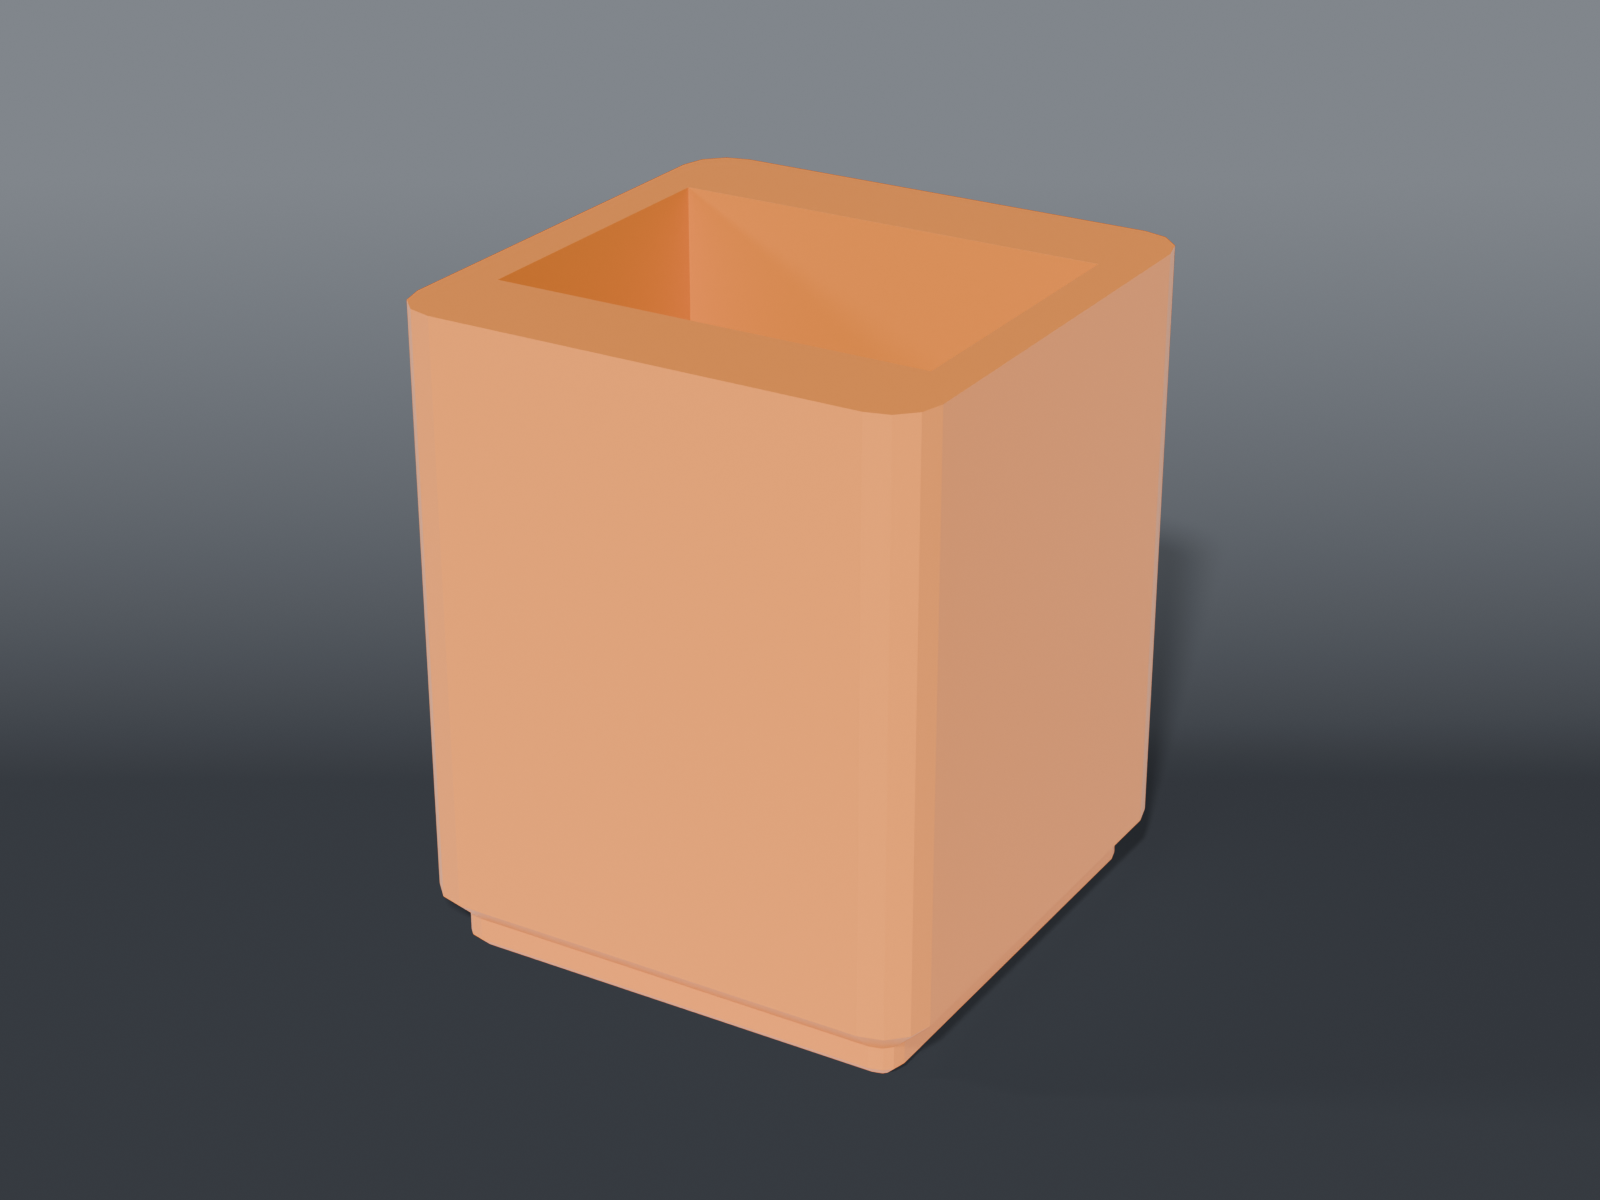
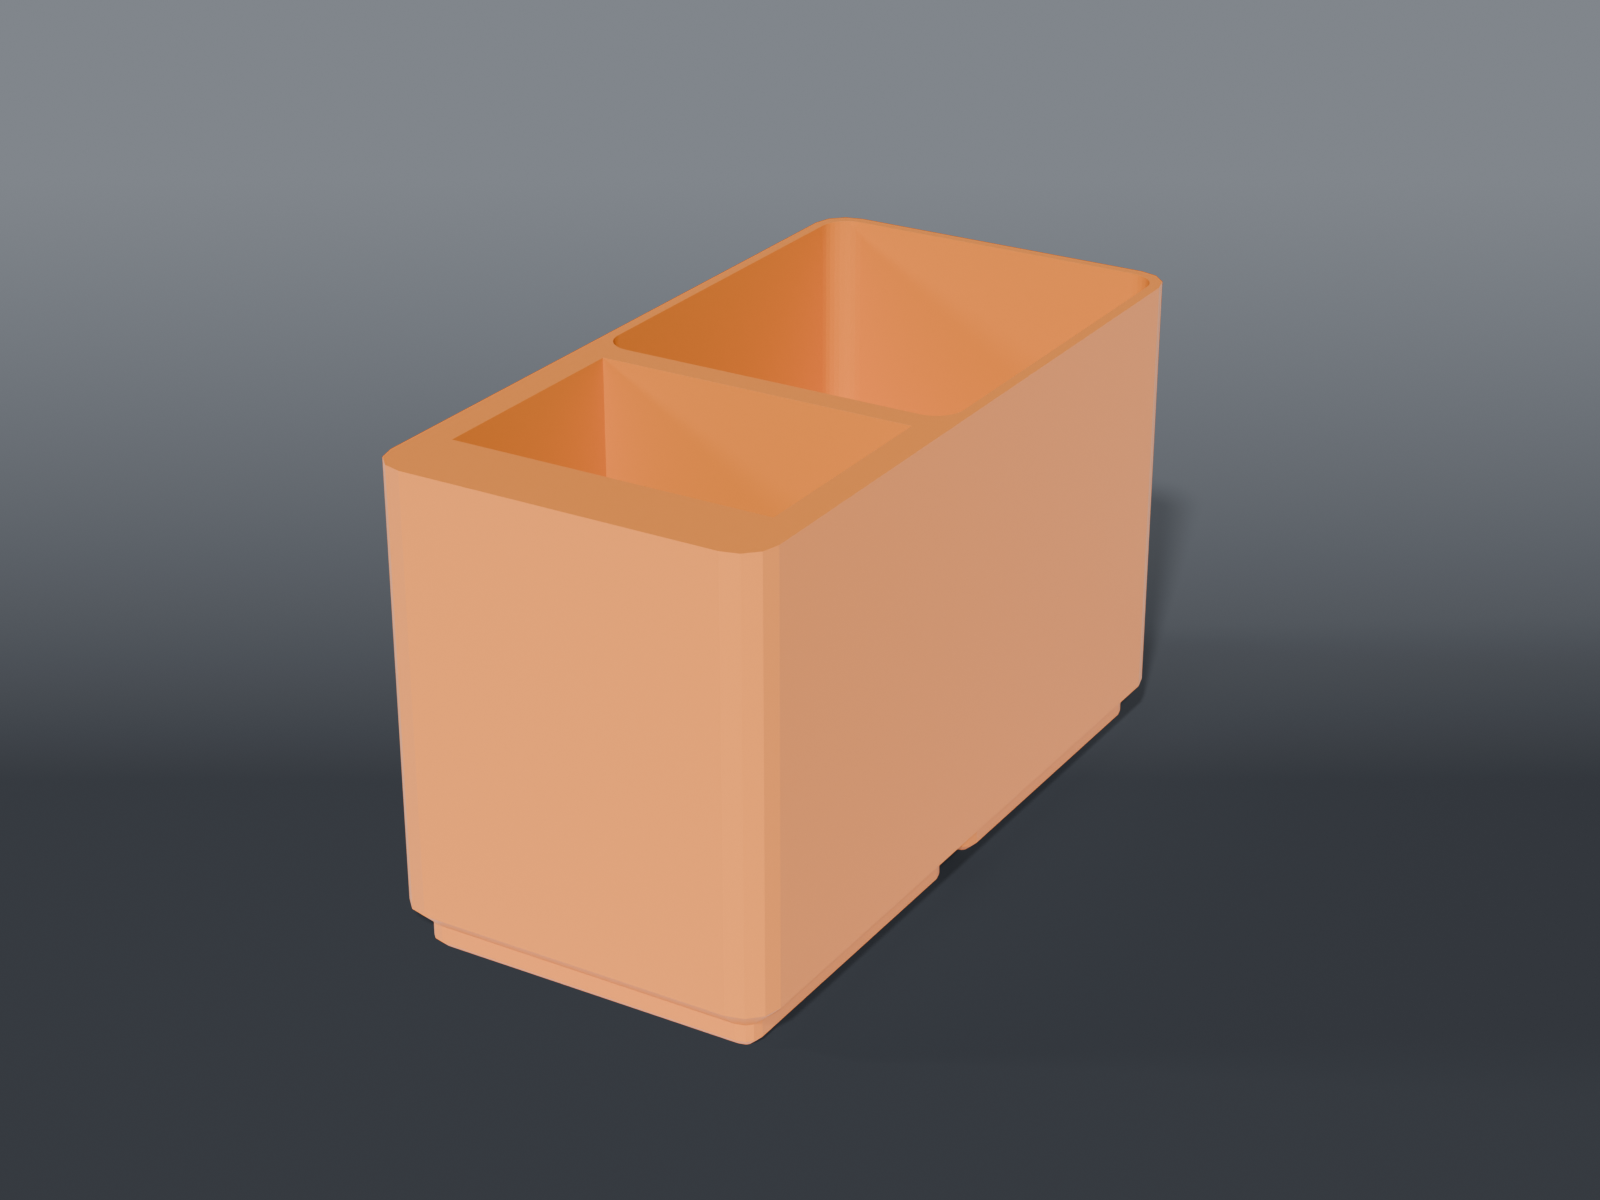
feat(chip-vacuum): 1x2 with an open well for the spare tip and suction cups

Changed region(s): [[0.2188, 0.1233, 0.75, 0.8942]]

diff --git a/chip-vacuum/README.md b/chip-vacuum/README.md
@@ -1,14 +1,14 @@
-# Chip-puller vacuum cup
+# Chip-puller vacuum bin
 
-![Chip-puller vacuum cup](preview.png)
+![Chip-puller vacuum bin](preview.png)
 
-A **1×1 Gridfinity cup** that stands a handheld, rechargeable chip-puller vacuum upright, bottom end down, beside the board.
+A **1×2 Gridfinity bin** for a handheld, rechargeable chip-puller vacuum. One cell stands the vacuum upright, bottom end down. The other is an open well for its spare tip and suction cups, so the tool and its bits lift out together.
 
 ## Parts
 
 | Part | File | Size | Print |
 |---|---|---|---|
-| **Vacuum cup** | `bin_chip_vacuum.scad` | 41.5 × 41.5 × 51 mm | ×1 — feet down, no supports |
+| **Vacuum bin** | `bin_chip_vacuum.scad` | 41.5 × 83.5 × 51 mm | ×1 — feet down, no supports |
 
 ## Sized from the vacuum
 
@@ -18,11 +18,11 @@ Calipered (`survey/MEASUREMENTS.md`, 2026-10-09): **34 × 24 × 170 mm** with it
 - **Closed floor.** The charge port is on the bottom face, but it won't charge standing in the cup, so there's no cable slot.
 - **45 mm of a 170 mm body** is a comfort choice. The cup latches into the grid, so nothing tips. It leans less than a degree and leaves plenty to grab.
 
-The spare tip and suction cups go in a small bin you already have.
+- **Open well, 39 × 46 mm, 30 mm deep** for the spare tip and suction cups. It's shallower than the vacuum pocket so small parts are easy to pick out, and it needs no measurements, since it's a compartment, not a fit.
 
 ## Checked
 
-A 34 × 24 body seated in the cup clears all four walls and rests on the floor. A body 1 mm larger collides with it, which confirms the check can fail.
+A 34 × 24 body seated in the pocket clears all four walls and rests on the floor. A body 1 mm larger collides with it, which confirms the check can fail. The well has a floor 30 mm down and is open above it.
 
 ## Recommended print settings
 

diff --git a/README.md b/README.md
@@ -40,7 +40,7 @@ A collection of 3D-printable models authored as **OpenSCAD source**. STLs are re
 | <img src="soldering-station/preview.png" width="150"> | [**Soldering station mounts**](soldering-station/) | 2×5 plate anchoring the iron/desoldering stand. Tapered side rails wedge it, so the base's unmeasured rounded end never has to be known. |
 | <img src="reel-brackets/preview.png" width="150"> | [**Reel brackets**](reel-brackets/) | Shelf-edge clamps carrying an 8 mm rod of tape or wire reels. Print two; any rod length works. Hooks rather than sticks, so the load tightens the grip. |
 | <img src="tool-carousel/preview.png" width="150"> | [**Tool carousel**](tool-carousel/) | Spinning three-tier carousel on two 608 bearings for the hand tools by the board: drivers, bit blocks, picks, brushes and a ring of tweezers. Round base works on a bare desk; drops into a 3×3 Gridfinity dock on the bench. |
-| <img src="chip-vacuum/preview.png" width="150"> | [**Chip-puller vacuum cup**](chip-vacuum/) | 1×1 cup that stands a handheld chip-puller vacuum upright, bottom end down. Square-cornered pocket so its rounded corners stay clear and the flats do the holding. |
+| <img src="chip-vacuum/preview.png" width="150"> | [**Chip-puller vacuum bin**](chip-vacuum/) | 1×2: one cell stands a handheld chip-puller vacuum upright, bottom end down; the other is an open well for its spare tip and suction cups. Square-cornered pocket so the vacuum's rounded corners stay clear and the flats do the holding. |
 Each model lives in its own directory with the parametric `.scad` source, a `README.md` (dimensions, print settings, parameters), and a Blender `preview.png`.
 
 ## Downloading prints
